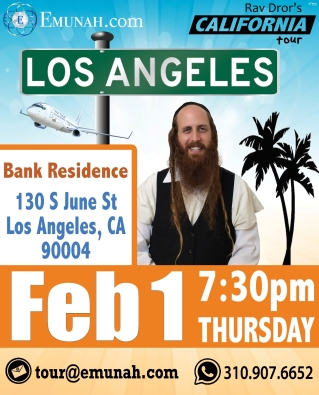
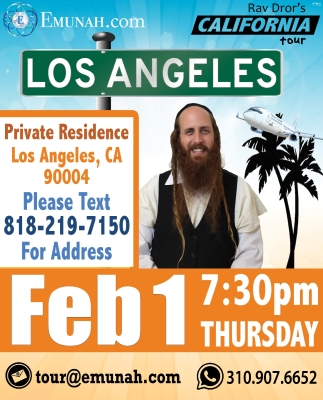
new flyers and added donate copy to all donate pages

diff --git a/public/templates/donate-paypal.html b/public/templates/donate-paypal.html
@@ -29,7 +29,12 @@ donate-paypal.html<donate-directive></donate-directive>
                 <div class="th-caption right-caption">
                     <img width="250" src="images/rav-dror.jpg" alt="Image Captions" />
                 </div>
-                <p>Join the Emunah.com family today! Your donation helps us spread the light of faith to countless people around the world.</p>
+                <p>YOU can deliver hope and Emunah (Faith) to the world. </p>
+                <p>Your generous donations not only support many causes and outreach projects, but also allows us to produce dynamic print, audio, and video content. </p>
+                <p>To date we have opened Emunah Centers in New York, Los Angeles, Bogota S.A., and Jerusalem. We also maintain strategic alliances with the Netiv Center in Texas. The Jewish Institute for Global Awareness in New Jersey, and Ezra L’Anousim, with offices in the U.S. and Israel. </p>
+                <p>YOUR CONTRIBUTION IS VITAL TO THE SUCCESS OF THE EMUNAH PROJECT</p>
+                <p>Please consider dedicating your contribution in honor of a loved one. Giving charity to an organization is a perfect way to honor them, and also to request prayer for success and salvation on your behalf.  By checking the monthly donation box, your support enables the message of Emunah to be spread in new and greater ways.  What a merit!</p>
+                <p><strong>“The Redemption primarily depends on Emunah (faith)”  -Lekutai Moharan 7:1</strong></p>
                   <hr>
                   <div id="PayPal">
                     <form action="https://www.paypal.com/cgi-bin/webscr" method="post" target="_top">

diff --git a/public/templates/donate-mail.html b/public/templates/donate-mail.html
@@ -29,7 +29,12 @@ donate-paypal.html<donate-directive></donate-directive>
                 <div class="th-caption right-caption">
                     <img width="250" src="images/rav-dror.jpg" alt="Image Captions" />
                 </div>
-                <p>Join the Emunah.com family today! Your donation helps us spread the light of faith to countless people around the world.</p>
+                <p>YOU can deliver hope and Emunah (Faith) to the world. </p>
+                <p>Your generous donations not only support many causes and outreach projects, but also allows us to produce dynamic print, audio, and video content. </p>
+                <p>To date we have opened Emunah Centers in New York, Los Angeles, Bogota S.A., and Jerusalem. We also maintain strategic alliances with the Netiv Center in Texas. The Jewish Institute for Global Awareness in New Jersey, and Ezra L’Anousim, with offices in the U.S. and Israel. </p>
+                <p>YOUR CONTRIBUTION IS VITAL TO THE SUCCESS OF THE EMUNAH PROJECT</p>
+                <p>Please consider dedicating your contribution in honor of a loved one. Giving charity to an organization is a perfect way to honor them, and also to request prayer for success and salvation on your behalf.  By checking the monthly donation box, your support enables the message of Emunah to be spread in new and greater ways.  What a merit!</p>
+                <p><strong>“The Redemption primarily depends on Emunah (faith)”  -Lekutai Moharan 7:1</strong></p>
                   <hr>
                   <div id="Mail">
                     <p>Please write a check payable to Emunah Project and send it to this address:</p>

diff --git a/public/templates/donate-transfer.html b/public/templates/donate-transfer.html
@@ -29,7 +29,12 @@ donate-paypal.html<donate-directive></donate-directive>
                 <div class="th-caption right-caption">
                     <img width="250" src="images/rav-dror.jpg" alt="Image Captions" />
                 </div>
-                <p>Join the Emunah.com family today! Your donation helps us spread the light of faith to countless people around the world.</p>
+                <p>YOU can deliver hope and Emunah (Faith) to the world. </p>
+                <p>Your generous donations not only support many causes and outreach projects, but also allows us to produce dynamic print, audio, and video content. </p>
+                <p>To date we have opened Emunah Centers in New York, Los Angeles, Bogota S.A., and Jerusalem. We also maintain strategic alliances with the Netiv Center in Texas. The Jewish Institute for Global Awareness in New Jersey, and Ezra L’Anousim, with offices in the U.S. and Israel. </p>
+                <p>YOUR CONTRIBUTION IS VITAL TO THE SUCCESS OF THE EMUNAH PROJECT</p>
+                <p>Please consider dedicating your contribution in honor of a loved one. Giving charity to an organization is a perfect way to honor them, and also to request prayer for success and salvation on your behalf.  By checking the monthly donation box, your support enables the message of Emunah to be spread in new and greater ways.  What a merit!</p>
+                <p><strong>“The Redemption primarily depends on Emunah (faith)”  -Lekutai Moharan 7:1</strong></p>
                   <hr>
                   <!-- Tab content -->
                   <div id="Transfer">

diff --git a/public/templates/donate-phone.html b/public/templates/donate-phone.html
@@ -29,7 +29,12 @@ donate-paypal.html<donate-directive></donate-directive>
                 <div class="th-caption right-caption">
                     <img width="250" src="images/rav-dror.jpg" alt="Image Captions" />
                 </div>
-                <p>Join the Emunah.com family today! Your donation helps us spread the light of faith to countless people around the world.</p>
+                <p>YOU can deliver hope and Emunah (Faith) to the world. </p>
+                <p>Your generous donations not only support many causes and outreach projects, but also allows us to produce dynamic print, audio, and video content. </p>
+                <p>To date we have opened Emunah Centers in New York, Los Angeles, Bogota S.A., and Jerusalem. We also maintain strategic alliances with the Netiv Center in Texas. The Jewish Institute for Global Awareness in New Jersey, and Ezra L’Anousim, with offices in the U.S. and Israel. </p>
+                <p>YOUR CONTRIBUTION IS VITAL TO THE SUCCESS OF THE EMUNAH PROJECT</p>
+                <p>Please consider dedicating your contribution in honor of a loved one. Giving charity to an organization is a perfect way to honor them, and also to request prayer for success and salvation on your behalf.  By checking the monthly donation box, your support enables the message of Emunah to be spread in new and greater ways.  What a merit!</p>
+                <p><strong>“The Redemption primarily depends on Emunah (faith)”  -Lekutai Moharan 7:1</strong></p>
                   <hr>
                   <!-- Tab content -->
                     

diff --git a/public/templates/donate.html b/public/templates/donate.html
@@ -163,7 +163,7 @@
                                 </label>
 
                             </div>
-                            <p>Your comfortable monthly donation gives me a stable platform to continue and grow this wonderful project” -Rav Dror</p>
+                            <p><strong>"Your comfortable monthly donation gives me a stable platform to continue and grow this wonderful project” -Rav Dror</strong></p>
                         </div>
                           <!-- <select name="duration">
                             <option value="one time">One Time</option>
